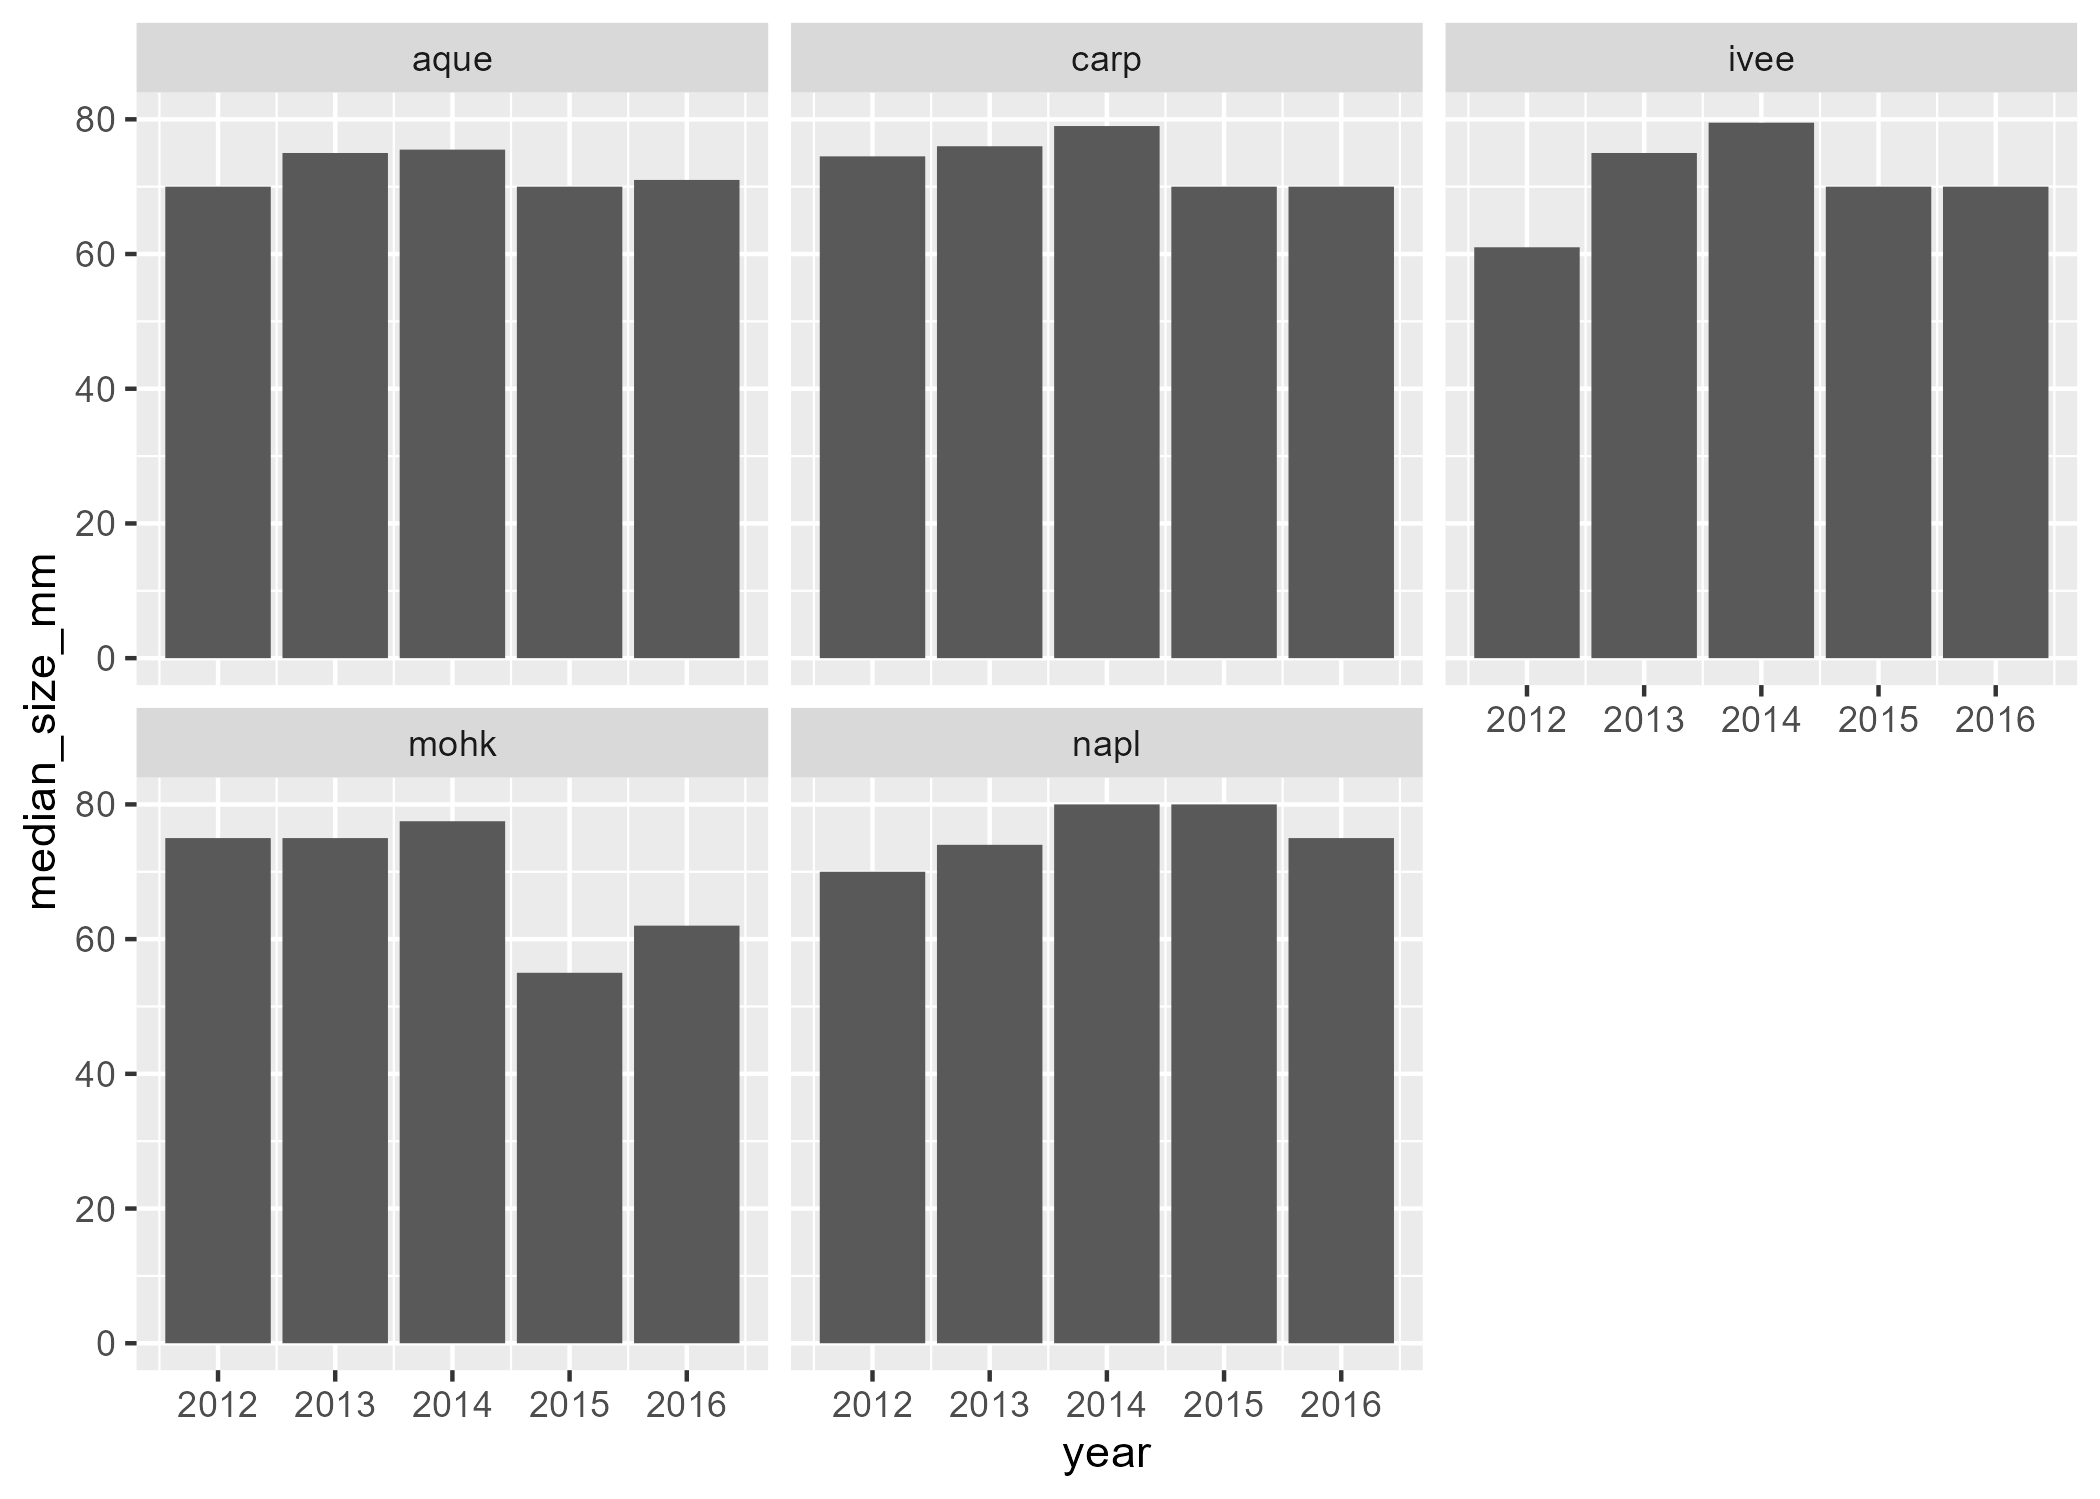
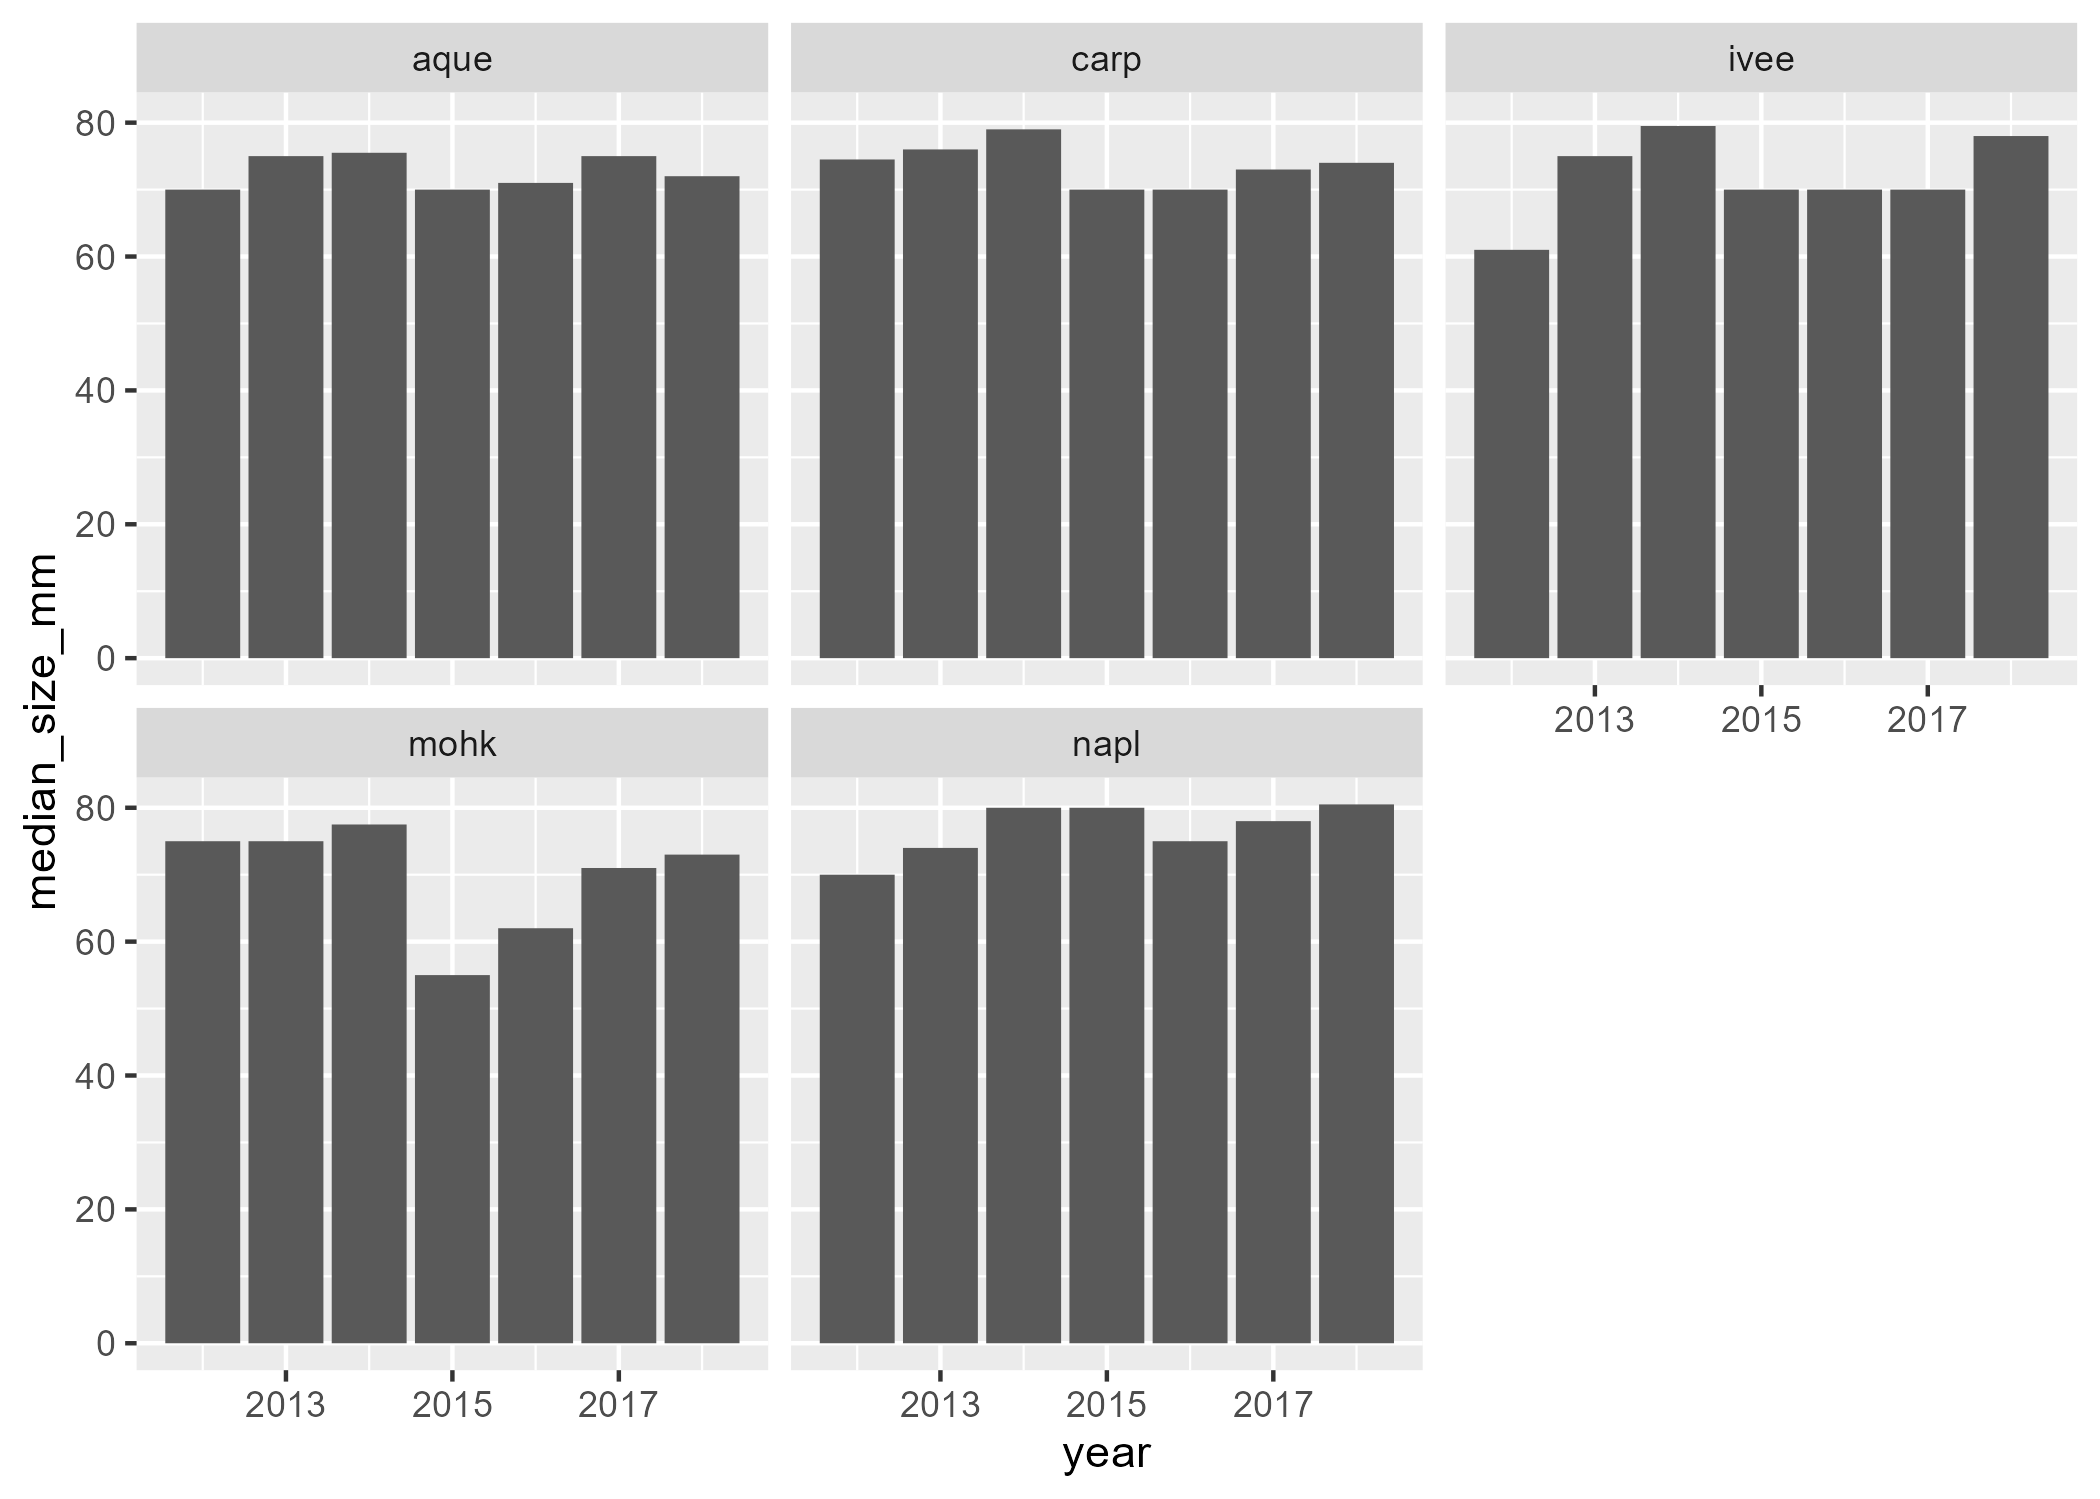
actualization of script using the correct file lobsters2

diff --git a/pivot_lobsters.html b/pivot_lobsters.html
@@ -357,7 +357,7 @@ display: none;
 </div>
 
 
-<p>There are 2893 total lobsters included in this report</p>
+<p>There are 6366 total lobsters included in this report</p>
 <div id="r-markdown" class="section level2">
 <h2>R Markdown</h2>
 <p>This is an R Markdown document. Markdown is a simple formatting
